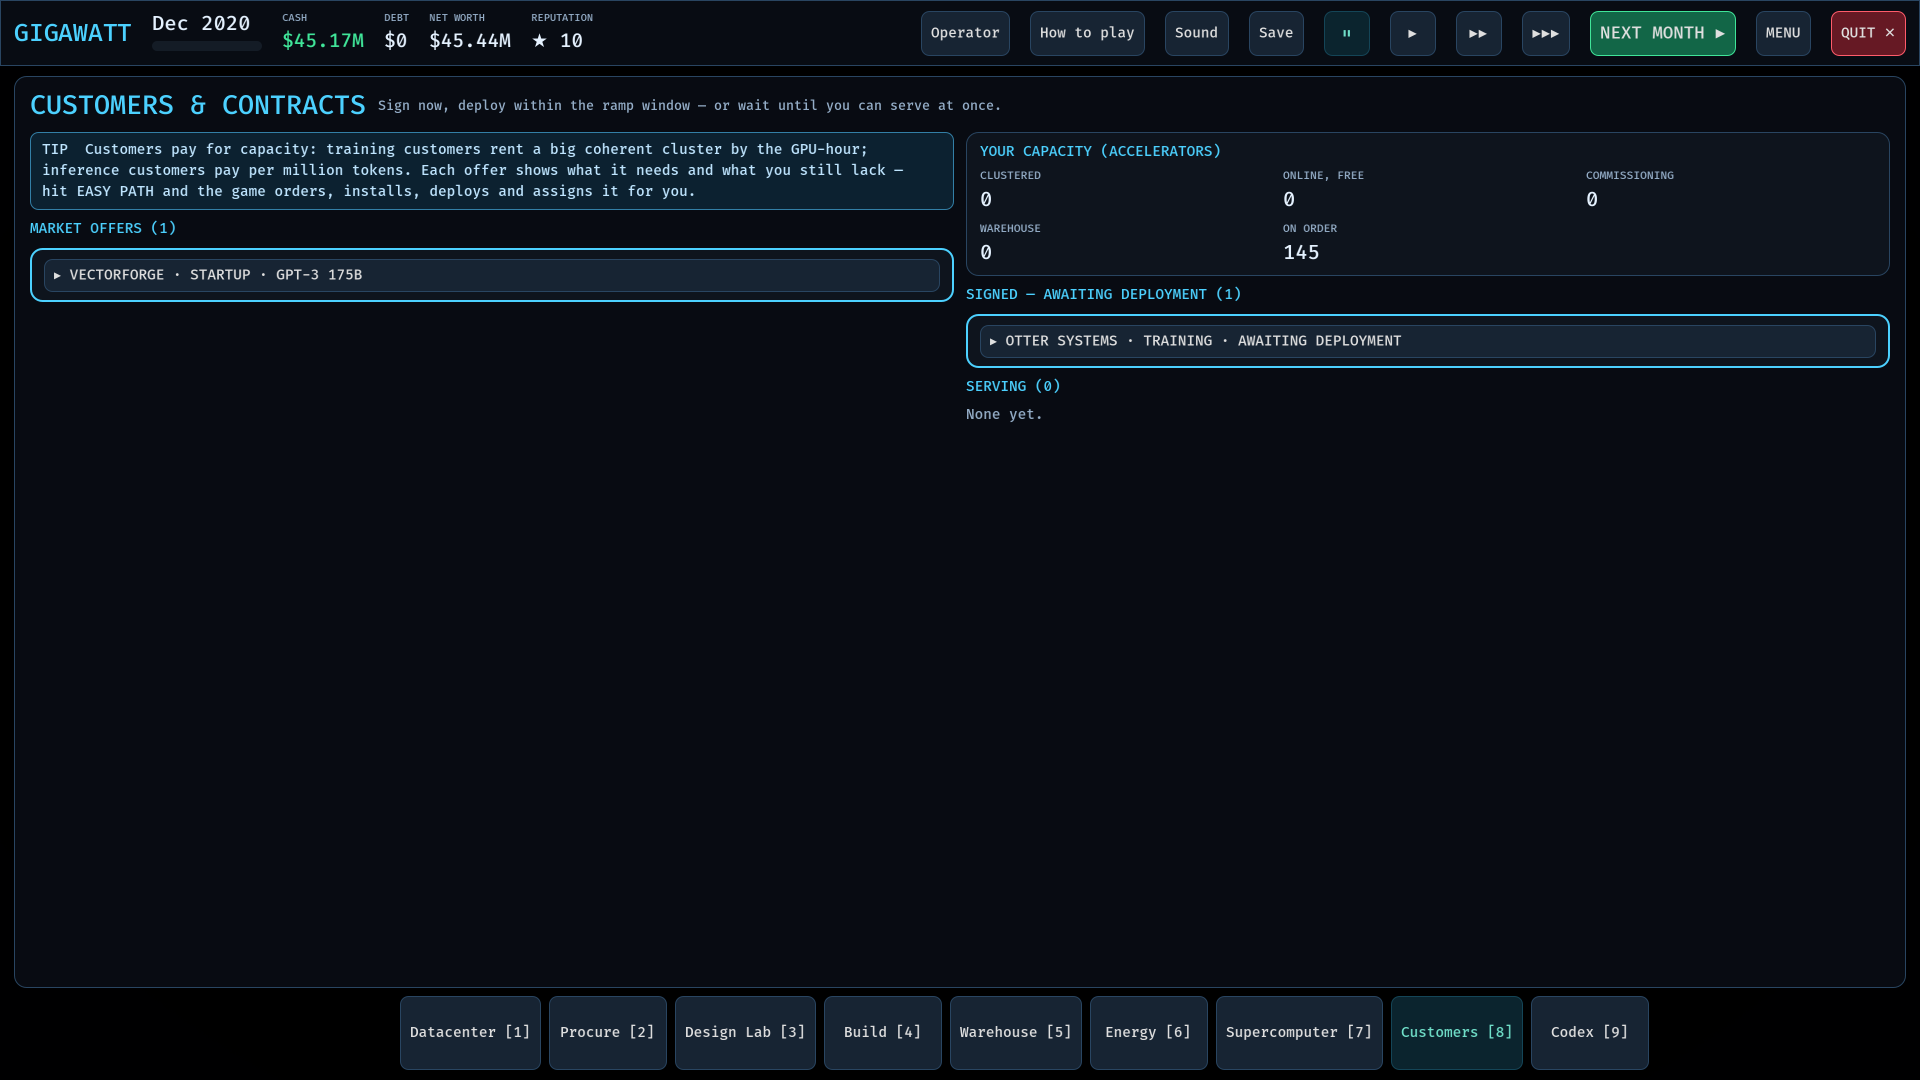
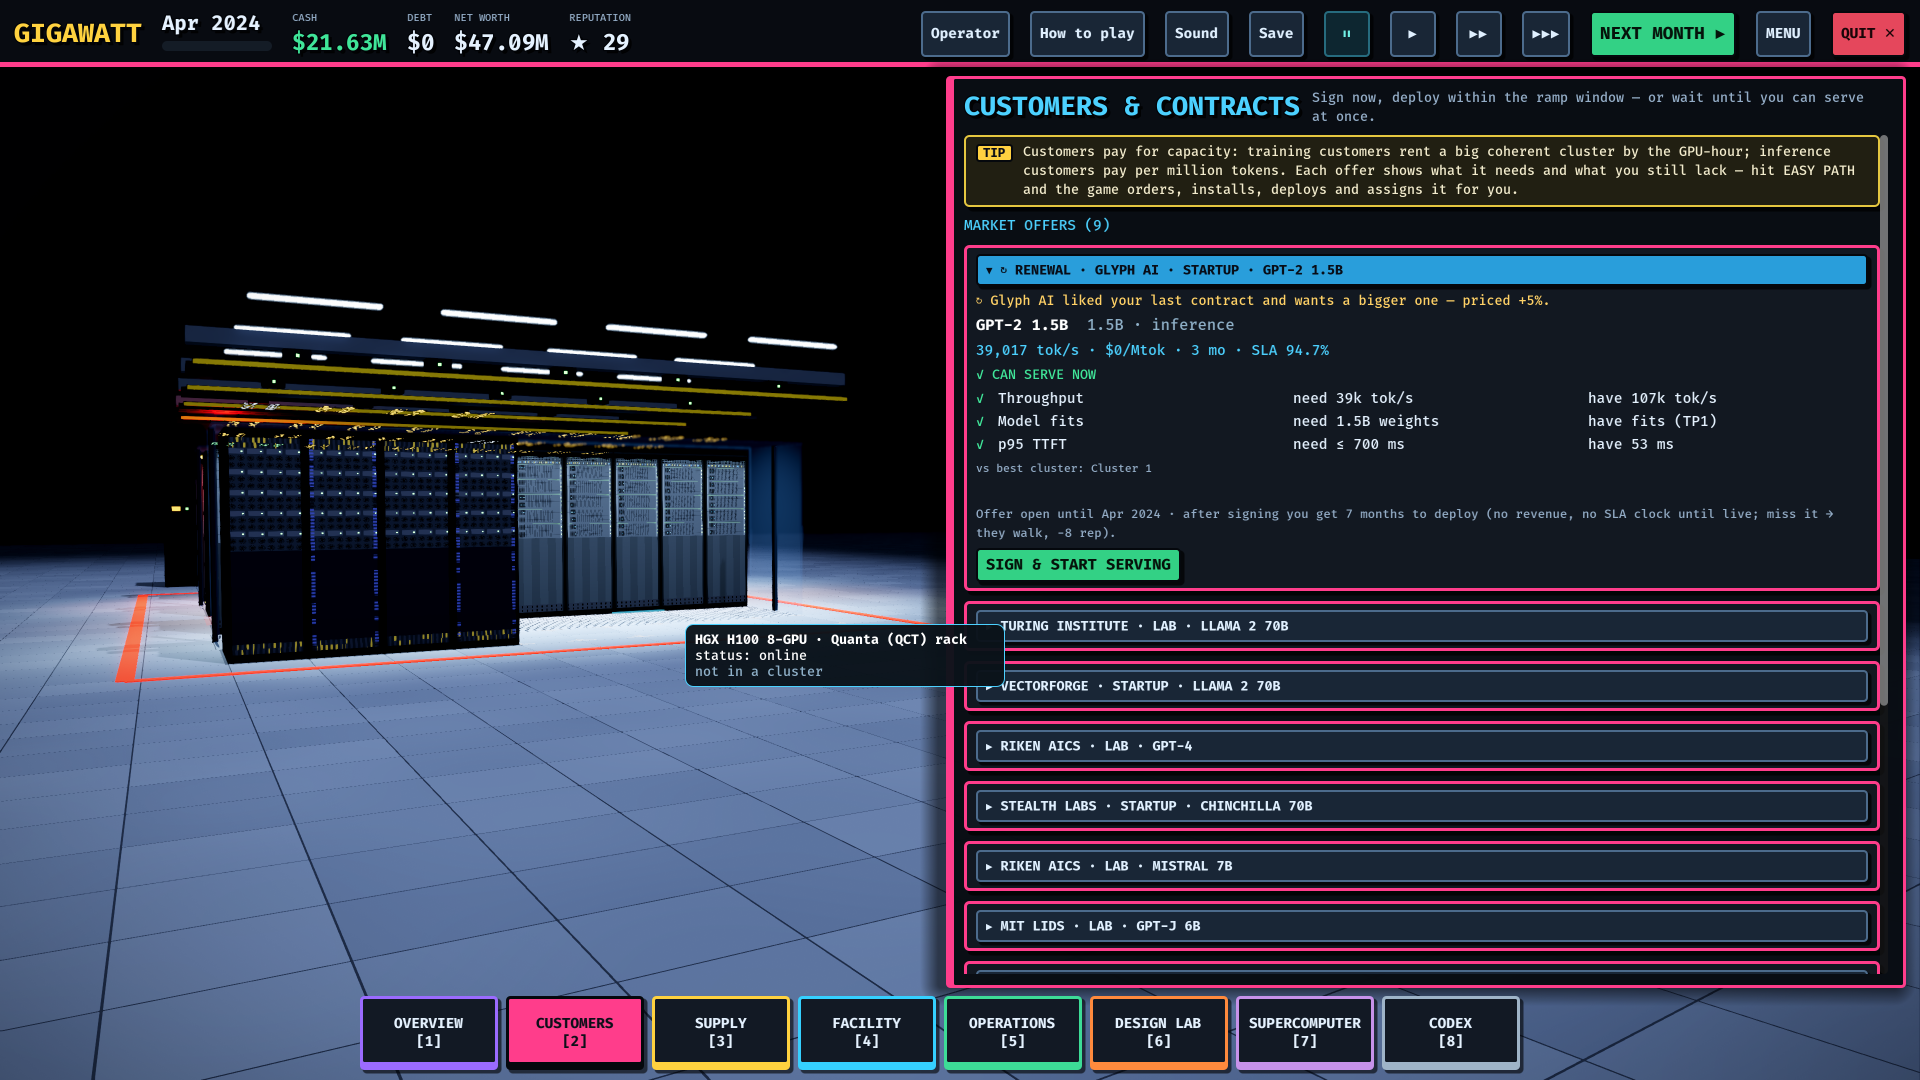
Drawer UI: hall always visible, Customers/Supply/Facility/Operations as right-hand drawers with tabs, sticker-style restyle, rack inspector, scroll no longer zooms the hall
- Dock regrouped (Overview, Customers, Supply[Procure|Warehouse], Facility[Build|Energy], Operations, Design Lab, Supercomputer, Codex); same key closes a drawer
- Hall recentres in the space the drawer leaves; two-column screens stack into one column inside drawers; Procure planner becomes a single-column wizard
- Kit restyle: accent per drawer, chunky buttons with hard shadows, chip titles/tags, outlined headline type, restyled top bar and dock
- Click a rack for an inspector (spot toggle, decommission)
- Mouse wheel over any UI no longer zooms the 3D hall

Claude-Session: https://claude.ai/code/session_01LLtMda2V2RW37hdgtQmr2z

diff --git a/README.md b/README.md
@@ -72,7 +72,7 @@ cd godot
 
 `run.sh` points Vulkan at the NVIDIA ICD and forces `forward_plus`; on hybrid AMD+NVIDIA laptops the default loader otherwise falls back to OpenGL compatibility. Edit it for your GPU, or just run `godot --path godot`.
 
-**Controls:** `1`–`9`, `0` switch screens · `Space` next month · right-drag orbit · wheel zoom · `WASD` pan · `Q/E` rotate · `T` thermal view · `Esc` menu · `Ctrl+Q` quit.
+**Controls:** `1`–`8` open a drawer (Overview, Customers, Supply, Facility, Operations) or workshop (Design Lab, Supercomputer, Codex); press the same key again to close it · `Space` next month · the hall opens in top view with every rack labelled by hardware and customer: left-drag or `WASD` pan, right-drag orbit, wheel zoom, `Q/E` rotate, `V` top view, `L` labels, `T` thermal view · click a rack to inspect it · `Esc` menu · `Ctrl+Q` quit. Graphics Low/Balanced/High under Settings.
 
 See [ARCHITECTURE.md](ARCHITECTURE.md) for how the engine is organised and where to add actions, queries and monthly systems.
 
